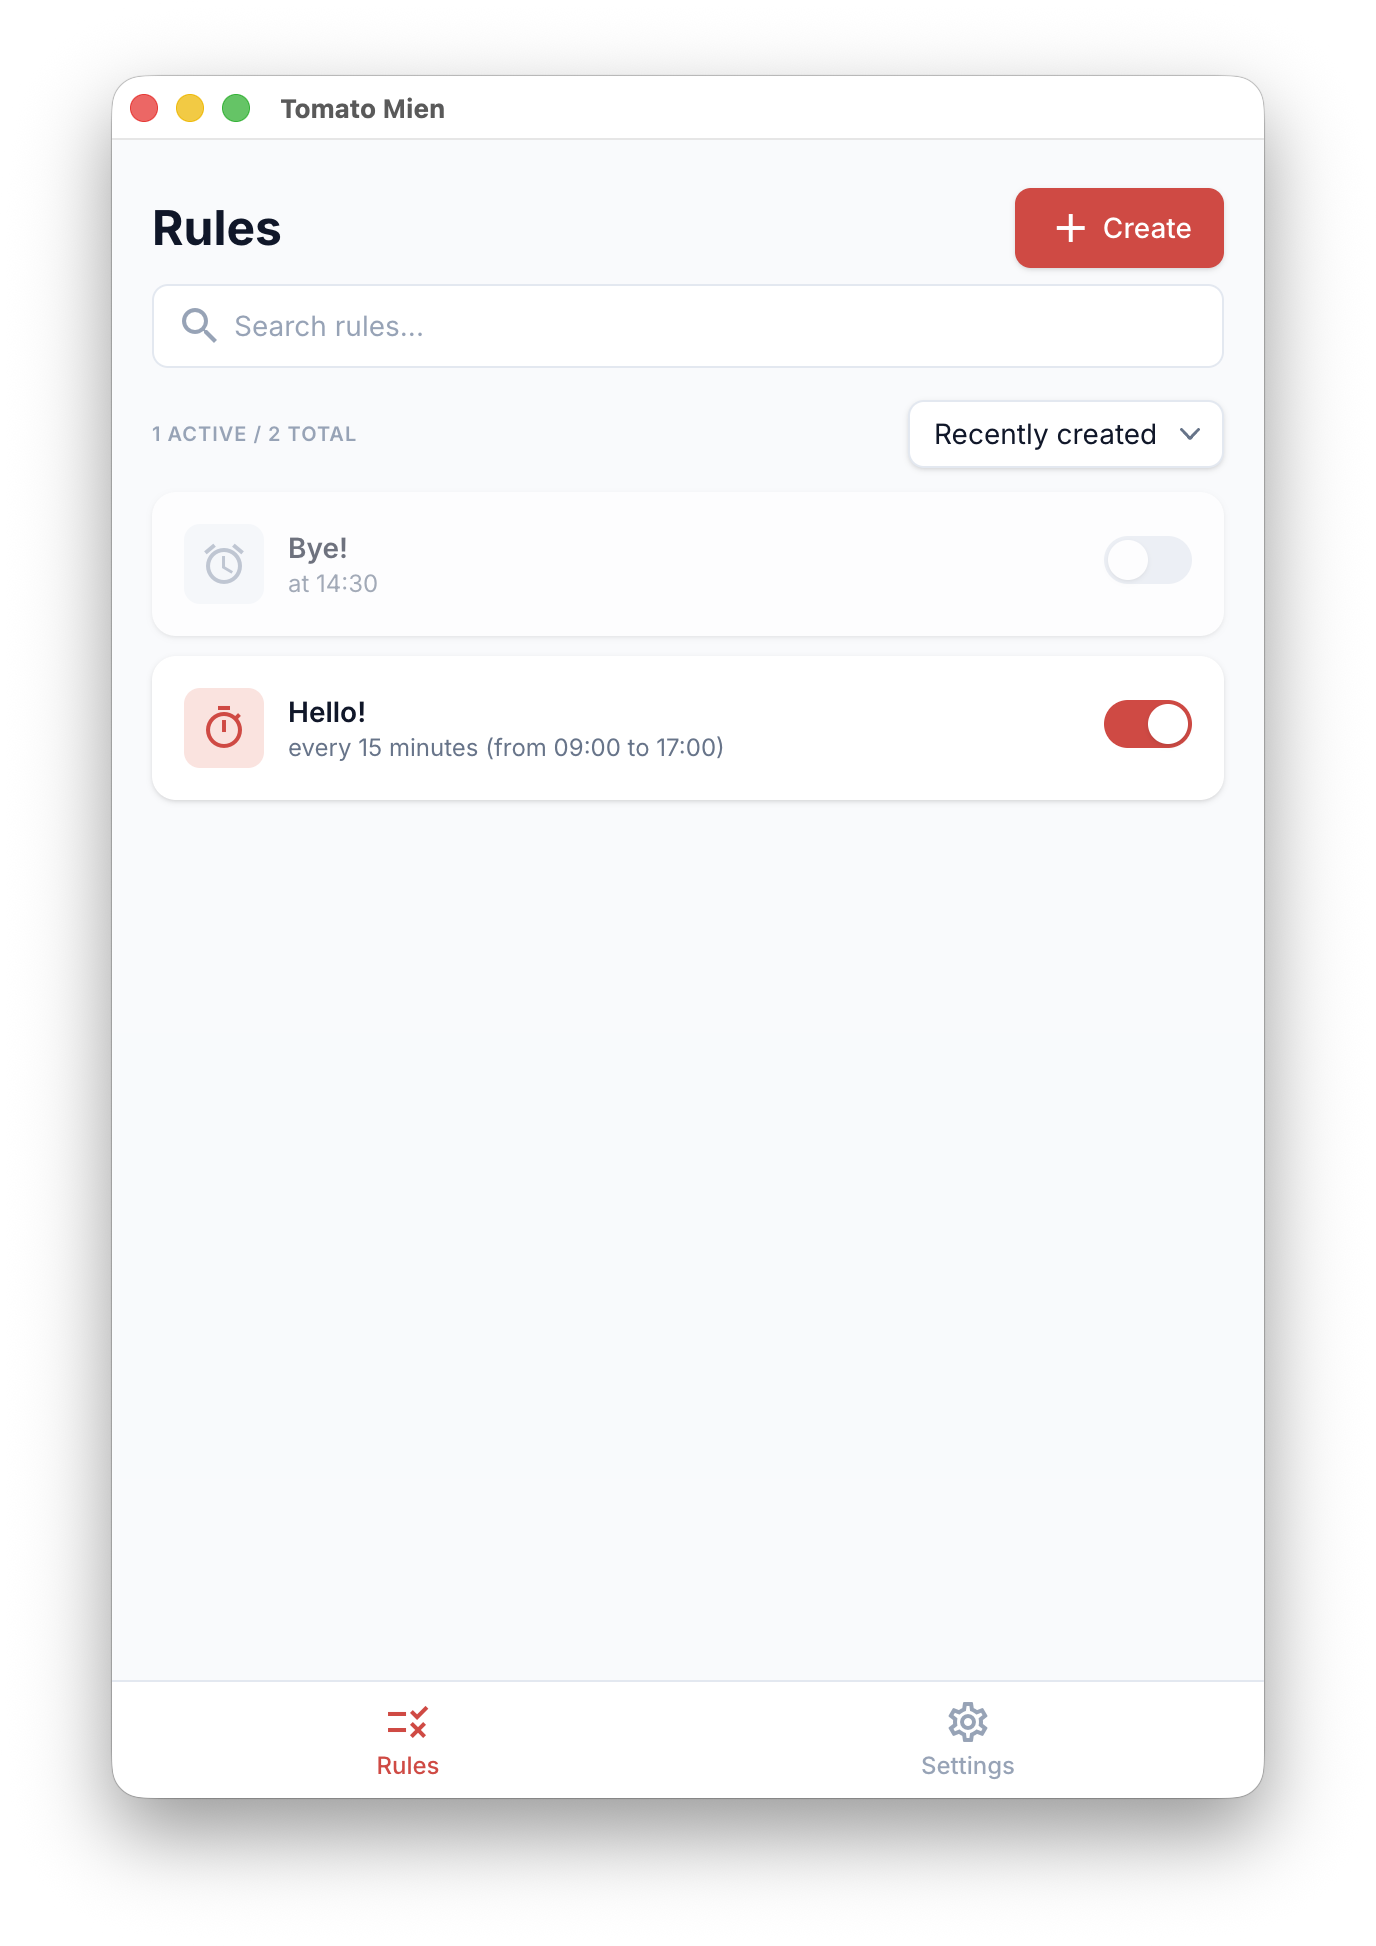
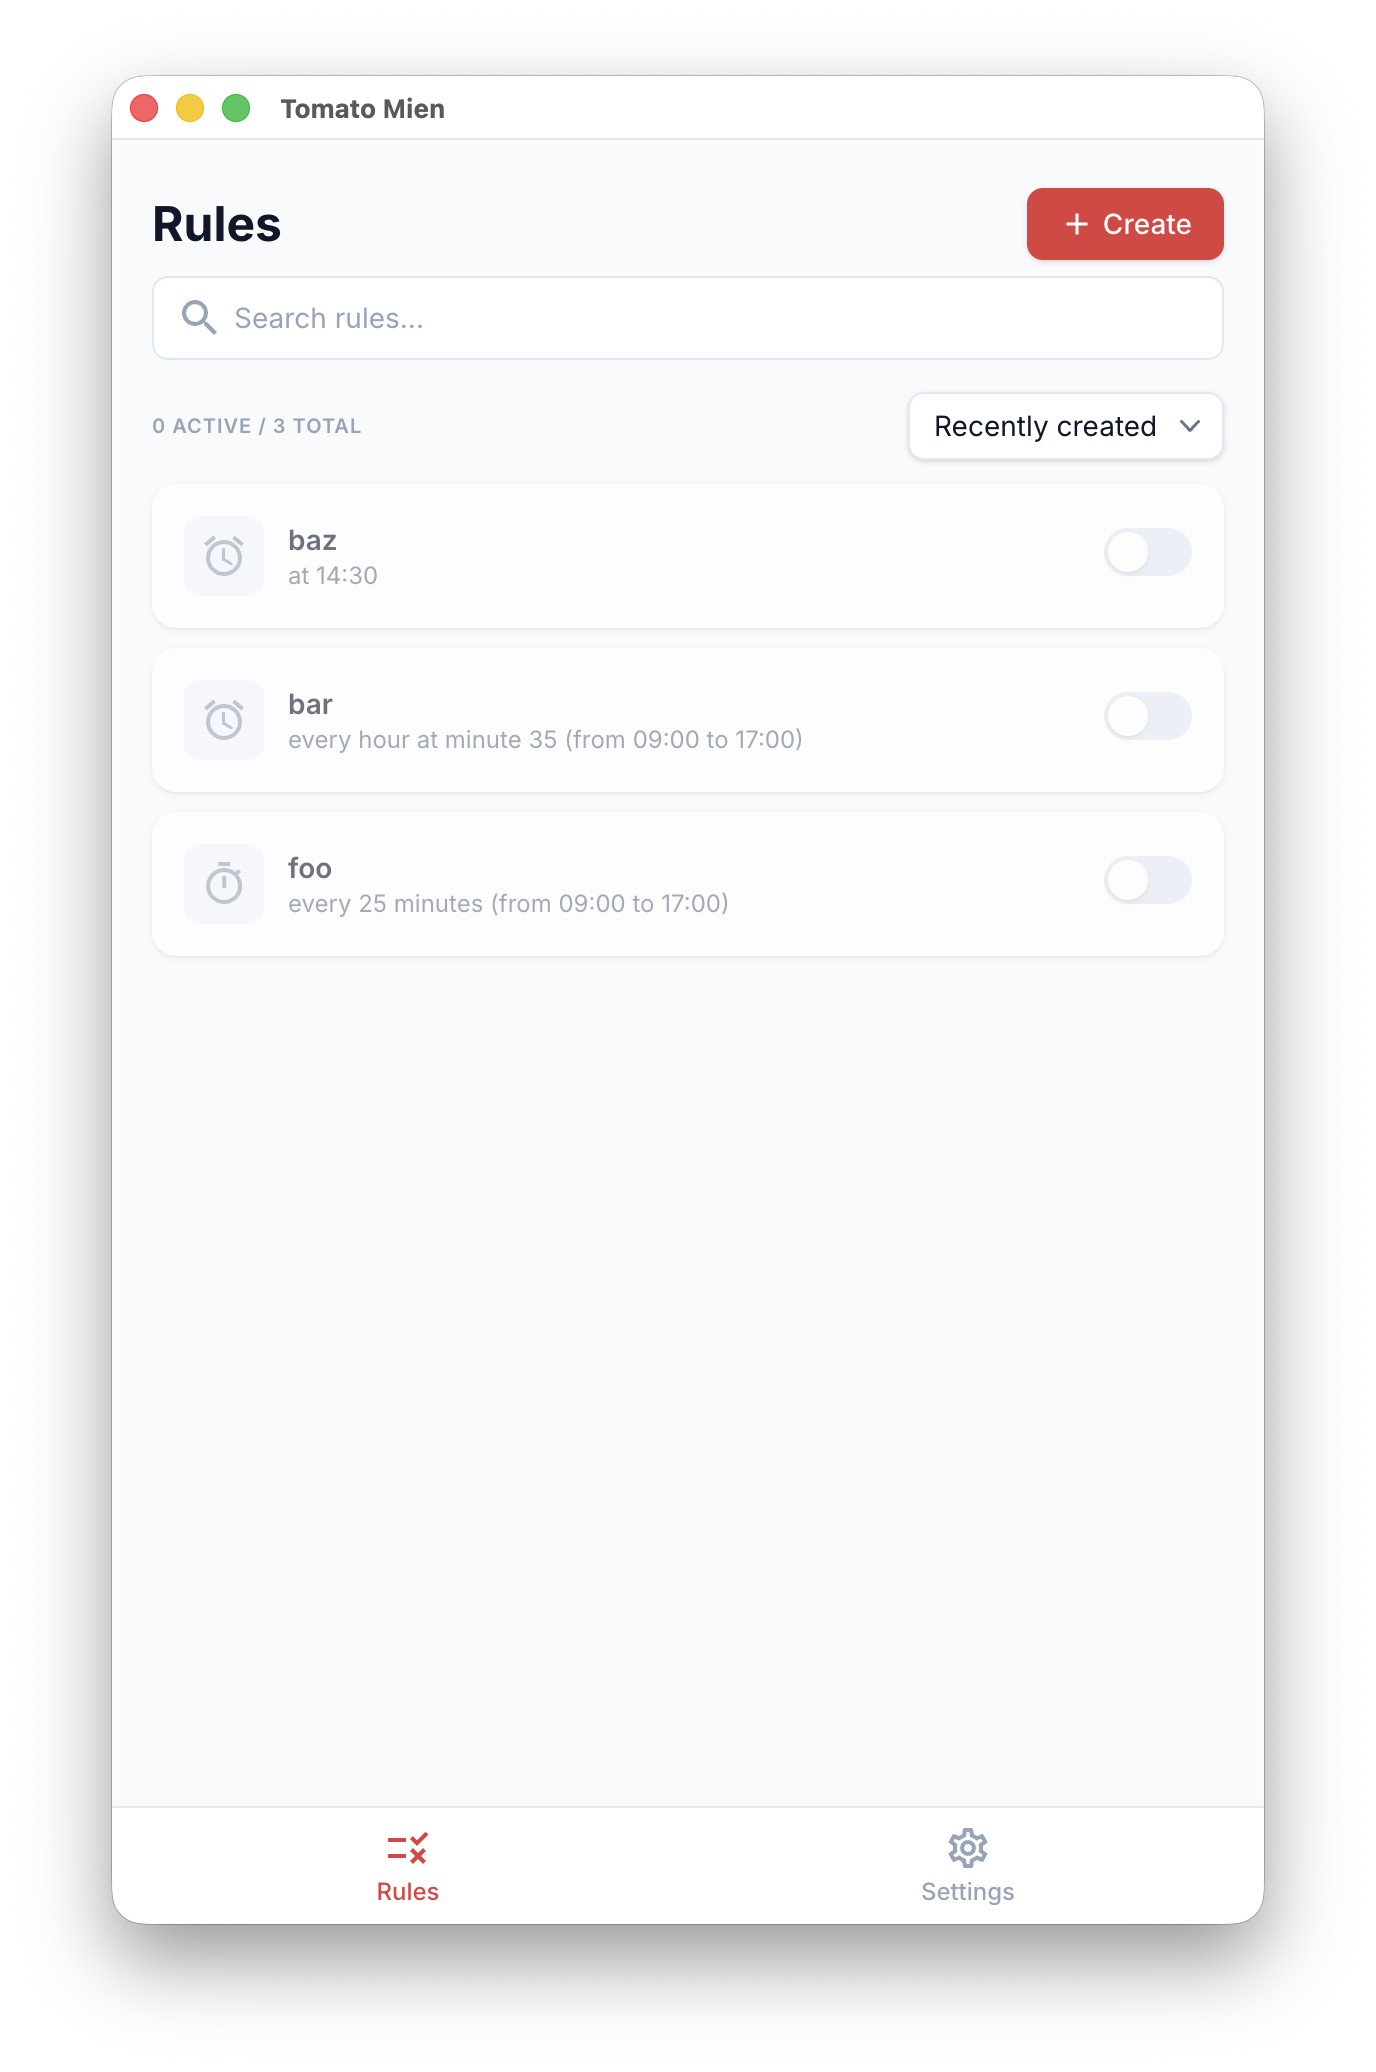
docs: App Preview 스크린샷 및 alt 텍스트 갱신
최신 앱 UI에 맞춰 스크린샷 이미지를 교체하고,
각 이미지의 alt 텍스트를 실제 화면 내용에 맞게 수정

diff --git a/packages/docs/src/index.html b/packages/docs/src/index.html
@@ -263,7 +263,7 @@
           >
             <img
               src="assets/screenshots/rules_screen.png"
-              alt="Tomato Mien rules list screen with search, filter, and toggle features"
+              alt="Tomato Mien rules list screen with search bar, active/total count, sort options, and rule cards with toggle"
               class="w-full"
               loading="lazy"
             />
@@ -278,7 +278,7 @@
           >
             <img
               src="assets/screenshots/rule_edit_screen.png"
-              alt="Tomato Mien rule editor screen with triggers and filters configuration"
+              alt="Tomato Mien rule editor with filters (AND), triggers (OR), summary, notification toggle, and scheduled activation"
               class="w-full"
               loading="lazy"
             />
@@ -293,7 +293,7 @@
           >
             <img
               src="assets/screenshots/settings_screen.png"
-              alt="Tomato Mien settings screen with time format, theme, and preview options"
+              alt="Tomato Mien settings screen with time format, theme, preview section, and about menu"
               class="w-full"
               loading="lazy"
             />
